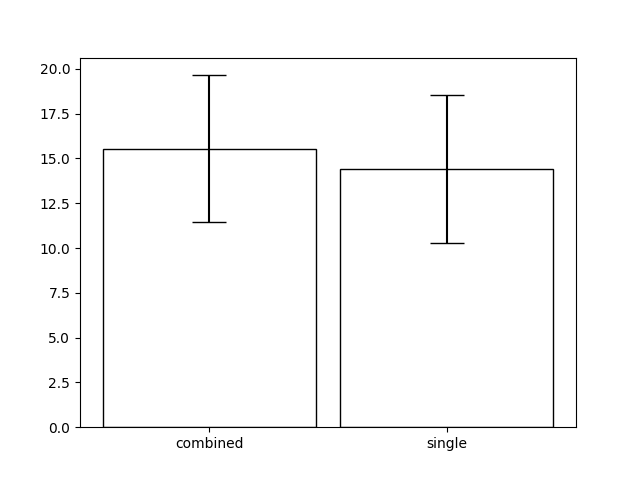
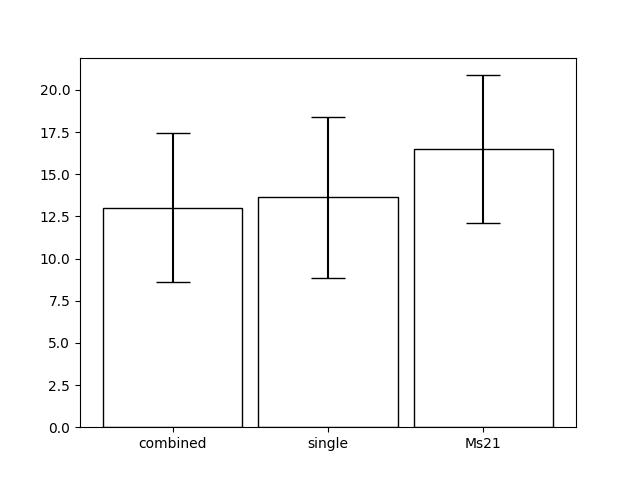
DLC update

diff --git a/DeepLabCut/DLC_jump_analysis/all_trackers/jump_analysis.py b/DeepLabCut/DLC_jump_analysis/all_trackers/jump_analysis.py
@@ -34,7 +34,8 @@ def main(full_path, relative_path, fname1, fname2):
         dataframes_list.append(nose_values1)
 
     combined_values = dataframes_list[0]
-    single_values = dataframes_list[1]
+    Ms21_values = dataframes_list[1]
+    single_values = dataframes_list[2]
     # print(combined_values)
     # combined_values_wo_Rear5 = combined_values[0:10]
     # print(combined_values_wo_Rear5)
@@ -48,11 +49,11 @@ def main(full_path, relative_path, fname1, fname2):
   
 
     w = .9 # bar width
-    x1 = [1, 2]
+    x1 = [1, 2, 3]
     x2 = [1, 2, 3, 4, 5]
-    colors1 = ['red','blue']
+    colors1 = ['red','blue', 'green']
     colors2 = ['red','blue', 'green', 'purple', 'orange', 'brown']
-    y1 = single_values, combined_values
+    y1 = single_values, combined_values, Ms21_values
     #y2 = Ms22_values, RC1_valuecds, Rear5_values
     #y3 = Ms22_values, RC1_values, Rear5_values, single_values, combined_values
     #y5 = single_trackers_df, combined_new_df_values, avg_new_df_values
@@ -65,7 +66,7 @@ def main(full_path, relative_path, fname1, fname2):
     #print(avg_all_trackers)
     # y4 = avg_all_trackers
     
-    labels = ['combined', 'single']
+    labels = ['combined', 'single', 'Ms21']
 
     
 
@@ -203,4 +204,4 @@ def main(full_path, relative_path, fname1, fname2):
     # plt.show()
 
 
-main(full_path_directory, org_nose_directory, "nose_results_1.png", "nose_results_2.png")#, "nose_results_2.png")
+main(full_path_directory, nose_directory, "nose_results_1.png", "nose_results_2.png")#, "nose_results_2.png")
